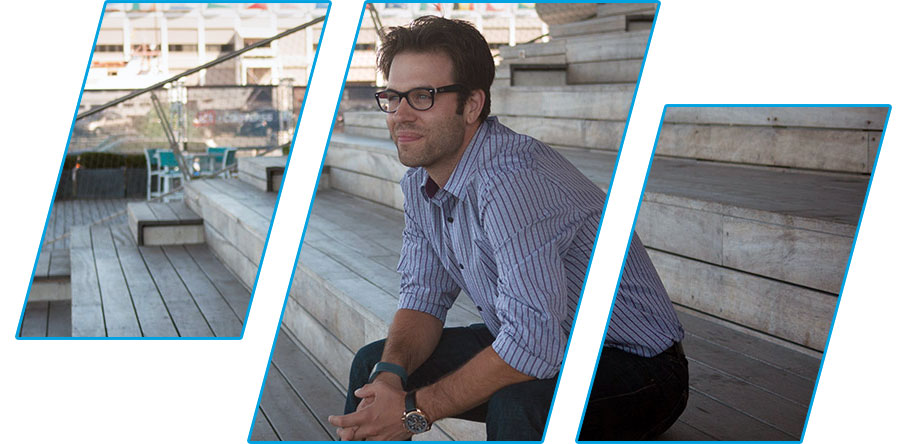
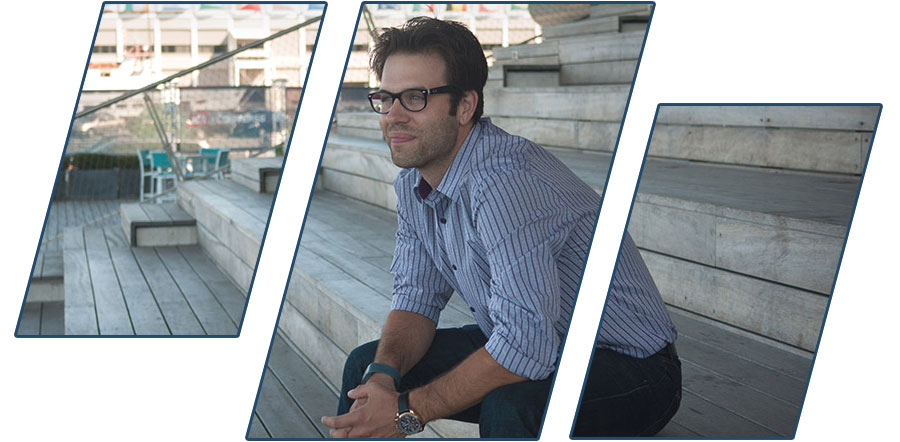
Updates galore

Changed region(s): [[0.0, 0.0, 0.9956, 1.0], [0.3733, 0.5882, 0.4044, 0.6471]]

diff --git a/public/css/style.min.css b/public/css/style.min.css
@@ -1,1 +1,1 @@
-/*! normalize.css v1.1.3 | MIT License | git.io/normalize */article,aside,details,figcaption,figure,footer,header,hgroup,main,nav,section,summary{display:block}audio,canvas,video{display:inline-block}audio:not([controls]){display:none;height:0}[hidden]{display:none}html{-ms-text-size-adjust:100%;-webkit-text-size-adjust:100%}button,html,input,select,textarea{font-family:sans-serif}body{margin:0}a:focus{outline:dotted thin}a:active,a:hover{outline:0}h1{font-size:2em;margin:.67em 0}h2{font-size:1.5em}h3{font-size:1.17em;margin:1em 0}h4{font-size:1em;margin:1.33em 0}h5{font-size:.83em;margin:1.67em 0}h6{font-size:.67em;margin:2.33em 0}abbr[title]{border-bottom:1px dotted}b,strong{font-weight:700}blockquote{margin:1em 40px}dfn{font-style:italic}hr{-moz-box-sizing:content-box;-webkit-box-sizing:content-box;box-sizing:content-box}mark{background:#ff0;color:#000}p,pre{margin:1em 0}code,kbd,pre,samp{font-family:monospace,serif;font-size:1em}pre{white-space:pre;white-space:pre-wrap;word-wrap:break-word}q{quotes:none}q:after,q:before{content:'';content:none}small{font-size:80%}sub,sup{font-size:75%;line-height:0;position:relative;vertical-align:baseline}sup{top:-.5em}sub{bottom:-.25em}dl,menu,ol,ul{margin:1em 0}dd{margin:0 0 0 40px}menu,ol,ul{padding:0 0 0 40px}nav ol,nav ul{list-style:none}img{border:0;-ms-interpolation-mode:bicubic}svg:not(:root){overflow:hidden}figure,form{margin:0}legend{border:0;padding:0;white-space:normal}button,input,select,textarea{font-size:100%;margin:0;vertical-align:baseline}button,input{line-height:normal}button,select{text-transform:none}button,html input[type=button],input[type=reset],input[type=submit]{-webkit-appearance:button;cursor:pointer}button[disabled],html input[disabled]{cursor:default}input[type=checkbox],input[type=radio]{-webkit-box-sizing:border-box;-moz-box-sizing:border-box;box-sizing:border-box;padding:0}input[type=search]{-webkit-appearance:textfield;-moz-box-sizing:content-box;-webkit-box-sizing:content-box;box-sizing:content-box}input[type=search]::-webkit-search-cancel-button,input[type=search]::-webkit-search-decoration{-webkit-appearance:none}button::-moz-focus-inner,input::-moz-focus-inner{border:0;padding:0}textarea{overflow:auto;vertical-align:top}table{border-collapse:collapse;border-spacing:0}/*! HTML5 Boilerplate v4.3.0 | MIT License | http://h5bp.com/ */button,html,input,select,textarea{color:#222}html{font-size:1em;line-height:1.4}::-moz-selection{background:#b3d4fc;text-shadow:none}::selection{background:#b3d4fc;text-shadow:none}hr{display:block;height:1px;border:0;border-top:1px solid #ccc;margin:1em 0;padding:0}audio,canvas,img,video{vertical-align:middle}fieldset{border:0;margin:0;padding:0}textarea{resize:vertical}.browsehappy{margin:.2em 0;background:#ccc;color:#000;padding:.2em 0}*{-webkit-box-sizing:border-box;-moz-box-sizing:border-box;box-sizing:border-box}body,html{height:100%;min-height:100%}body{color:#222;font-family:Roboto,'Helvetica Neue',Helvetica,Arial,sans-serif;font-size:.8125em}@media all and (min-width:500px){body{font-size:1em}}.container{width:90%;max-width:50em;display:block;margin:0 auto;border-top:1px solid #00a2e0}.container:after,.container:before{content:" ";display:table}.container:after{clear:both}.hero .container{border-top:0;padding:0}@media all and (min-width:950px){.container,.details .container{padding:1em 0}}.profile{width:100%;margin-top:1em;display:block;height:30em;background:url(../img/profile2sm.jpg) center top no-repeat}@media all and (min-width:500px){.profile{height:25em}}@media all and (min-width:700px){.profile{height:30em;background:url(../img/profile2.jpg) center top no-repeat}}h1,h2,h3{font-weight:700;font-family:'Roboto Condensed',sans-serif;color:#254969}.hero h1{font-size:3.35em;margin-bottom:.5em;margin-top:0}.hero h1 span{display:block;font-size:.5em;font-weight:400;font-style:italic;color:#666}h2{margin:.66667em 0}p{font-size:1.15em;line-height:1.7}a{color:#254969;-webkit-transition-property:color;transition-property:color;-webkit-transition-duration:.25s;transition-duration:.25s}a:hover{text-decoration:none}.contact ul{list-style-type:none;padding:0;margin:0 auto 1em}.contact li{padding:0;display:block;margin:0 2% 2%;font-size:1em;font-weight:700}@media all and (min-width:600px){.contact li{display:inline-block;width:49%;margin:0 1% 2% 0;text-align:left}.contact li:nth-child(2n){margin-right:0}}.contact a{padding:.75em 1em;display:block;border:1px solid #00a2e0;border-radius:5px;text-decoration:none;-webkit-transition-property:background;transition-property:background;-webkit-transition-duration:.25s;transition-duration:.25s}@media all and (min-width:600px){.contact a{padding:.5em 1em}}.details .details__block{vertical-align:top;padding:0 0 .625em}.details .details__block img{width:1.25em;margin-top:-.15em;margin-right:.25em}.details .details__block h3{margin:0}.details .details__block p{margin:.66667em 0}@font-face{font-family:icon;src:url(../fonts/icon.eot);src:url(../fonts/icon.eot#iefix) format('embedded-opentype'),url(../fonts/icon.ttf) format('truetype'),url(../fonts/icon.woff) format('woff'),url(../fonts/icon.svg#adhd) format('svg');font-weight:400;font-style:normal}[class^=icon]{font-family:adhd;speak:none;font-style:normal;font-weight:400;font-variant:normal;text-transform:none;line-height:1;-webkit-font-smoothing:antialiased}.icon-twitter:before{margin-right:5px;font-family:icon;content:"\74"}.icon-github:before{font-family:icon;margin-right:5px;content:"\67"}.icon-linkedin:before{font-family:icon;margin-right:5px;content:"\6c"}.icon-dribbble:before{font-family:icon;margin-right:5px;content:"\64"}.icon-behance:before{font-family:icon;margin-right:5px;content:"\62"}.icon-email:before{content:"\65";margin-right:5px;font-family:icon}.bigEntrance{animation-name:bigEntrance;-webkit-animation-name:bigEntrance;animation-duration:1.6s;-webkit-animation-duration:1.6s;animation-timing-function:ease-out;-webkit-animation-timing-function:ease-out;visibility:visible!important}@keyframes bigEntrance{0%{-webkit-transform:scale(0.3) rotate(6deg) translateX(-30%) translateY(30%);transform:scale(0.3) rotate(6deg) translateX(-30%) translateY(30%);opacity:.2}30%{-webkit-transform:scale(1.03) rotate(-2deg) translateX(2%) translateY(-2%);transform:scale(1.03) rotate(-2deg) translateX(2%) translateY(-2%);opacity:1}45%{-webkit-transform:scale(0.98) rotate(1deg) translateX(0%) translateY(0%);transform:scale(0.98) rotate(1deg) translateX(0%) translateY(0%);opacity:1}60%{-webkit-transform:scale(1.01) rotate(-1deg) translateX(0%) translateY(0%);transform:scale(1.01) rotate(-1deg) translateX(0%) translateY(0%);opacity:1}75%{-webkit-transform:scale(0.99) rotate(1deg) translateX(0%) translateY(0%);transform:scale(0.99) rotate(1deg) translateX(0%) translateY(0%);opacity:1}90%{-webkit-transform:scale(1.01) rotate(0deg) translateX(0%) translateY(0%);transform:scale(1.01) rotate(0deg) translateX(0%) translateY(0%);opacity:1}100%{-webkit-transform:scale(1) rotate(0deg) translateX(0%) translateY(0%);transform:scale(1) rotate(0deg) translateX(0%) translateY(0%);opacity:1}}@-webkit-keyframes bigEntrance{0%{-webkit-transform:scale(0.3) rotate(6deg) translateX(-30%) translateY(30%);opacity:.2}30%{-webkit-transform:scale(1.03) rotate(-2deg) translateX(2%) translateY(-2%);opacity:1}45%{-webkit-transform:scale(0.98) rotate(1deg) translateX(0%) translateY(0%);opacity:1}60%{-webkit-transform:scale(1.01) rotate(-1deg) translateX(0%) translateY(0%);opacity:1}75%{-webkit-transform:scale(0.99) rotate(1deg) translateX(0%) translateY(0%);opacity:1}90%{-webkit-transform:scale(1.01) rotate(0deg) translateX(0%) translateY(0%);opacity:1}100%{-webkit-transform:scale(1) rotate(0deg) translateX(0%) translateY(0%);opacity:1}}.ir{background-color:transparent;border:0;overflow:hidden}.ir:before{content:"";display:block;width:0;height:150%}.hidden{display:none!important;visibility:hidden}.visuallyhidden{border:0;clip:rect(0 0 0 0);height:1px;margin:-1px;overflow:hidden;padding:0;position:absolute;width:1px}.visuallyhidden.focusable:active,.visuallyhidden.focusable:focus{clip:auto;height:auto;margin:0;overflow:visible;position:static;width:auto}.invisible{visibility:hidden}.clearfix:after,.clearfix:before{content:" ";display:table}.clearfix:after{clear:both}@media print{@page{margin:.5cm}*{background:0 0!important;color:#000!important;-webkit-box-shadow:none!important;box-shadow:none!important;text-shadow:none!important}a,a:visited{text-decoration:underline}a[href]:after{content:" (" attr(href) ")"}abbr[title]:after{content:" (" attr(title) ")"}.ir a:after,a[href^="javascript:"]:after,a[href^="#"]:after{content:""}blockquote,pre{border:1px solid #999;page-break-inside:avoid}thead{display:table-header-group}img,tr{page-break-inside:avoid}img{max-width:100%!important}h2,h3,p{orphans:3;widows:3}h2,h3{page-break-after:avoid}}
+/*! normalize.css v1.1.3 | MIT License | git.io/normalize */article,aside,details,figcaption,figure,footer,header,hgroup,main,nav,section,summary{display:block}audio,canvas,video{display:inline-block}audio:not([controls]){display:none;height:0}[hidden]{display:none}html{-ms-text-size-adjust:100%;-webkit-text-size-adjust:100%}button,html,input,select,textarea{font-family:sans-serif}body{margin:0}a:focus{outline:dotted thin}a:active,a:hover{outline:0}h1{font-size:2em;margin:.67em 0}h2{font-size:1.5em}h3{font-size:1.17em;margin:1em 0}h4{font-size:1em;margin:1.33em 0}h5{font-size:.83em;margin:1.67em 0}h6{font-size:.67em;margin:2.33em 0}abbr[title]{border-bottom:1px dotted}b,strong{font-weight:700}blockquote{margin:1em 40px}dfn{font-style:italic}hr{-moz-box-sizing:content-box;-webkit-box-sizing:content-box;box-sizing:content-box}mark{background:#ff0;color:#000}p,pre{margin:1em 0}code,kbd,pre,samp{font-family:monospace,serif;font-size:1em}pre{white-space:pre;white-space:pre-wrap;word-wrap:break-word}q{quotes:none}q:after,q:before{content:'';content:none}small{font-size:80%}sub,sup{font-size:75%;line-height:0;position:relative;vertical-align:baseline}sup{top:-.5em}sub{bottom:-.25em}dl,menu,ol,ul{margin:1em 0}dd{margin:0 0 0 40px}menu,ol,ul{padding:0 0 0 40px}nav ol,nav ul{list-style:none}img{border:0;-ms-interpolation-mode:bicubic}svg:not(:root){overflow:hidden}figure,form{margin:0}legend{border:0;padding:0;white-space:normal}button,input,select,textarea{font-size:100%;margin:0;vertical-align:baseline}button,input{line-height:normal}button,select{text-transform:none}button,html input[type=button],input[type=reset],input[type=submit]{-webkit-appearance:button;cursor:pointer}button[disabled],html input[disabled]{cursor:default}input[type=checkbox],input[type=radio]{-webkit-box-sizing:border-box;-moz-box-sizing:border-box;box-sizing:border-box;padding:0}input[type=search]{-webkit-appearance:textfield;-moz-box-sizing:content-box;-webkit-box-sizing:content-box;box-sizing:content-box}input[type=search]::-webkit-search-cancel-button,input[type=search]::-webkit-search-decoration{-webkit-appearance:none}button::-moz-focus-inner,input::-moz-focus-inner{border:0;padding:0}textarea{overflow:auto;vertical-align:top}table{border-collapse:collapse;border-spacing:0}/*! HTML5 Boilerplate v4.3.0 | MIT License | http://h5bp.com/ */button,html,input,select,textarea{color:#222}html{font-size:1em;line-height:1.4}::-moz-selection{background:#b3d4fc;text-shadow:none}::selection{background:#b3d4fc;text-shadow:none}hr{display:block;height:1px;border:0;border-top:1px solid #ccc;margin:1em 0;padding:0}audio,canvas,img,video{vertical-align:middle}fieldset{border:0;margin:0;padding:0}textarea{resize:vertical}.browsehappy{margin:.2em 0;background:#ccc;color:#000;padding:.2em 0}*{-webkit-box-sizing:border-box;-moz-box-sizing:border-box;box-sizing:border-box}body,html{min-height:100%}body{color:#222;font-family:Roboto,'Helvetica Neue',Helvetica,Arial,sans-serif;font-size:.8125em;border-left:20px solid #254969}@media all and (min-width:500px){body{font-size:1em}}.container{width:90%;max-width:50em;display:block;border-top:1px solid #254969;margin:0 auto}.container:after,.container:before{content:" ";display:table}.container:after{clear:both}.hero .container{border-top:0;padding:0}@media all and (min-width:950px){.container,.details .container{padding:1em 0}}.profile{width:100%;display:block;height:30em;background:url(../img/profile2sm.jpg) center 30px no-repeat}@media all and (min-width:500px){.profile{height:25em}}@media all and (min-width:700px){.profile{height:30em;background:url(../img/profile2.jpg) center 20px no-repeat}}h1,h2,h3{font-weight:700;font-family:'Roboto Condensed',sans-serif;color:#254969}.hero h1{font-size:3.35em;margin-bottom:.5em;margin-top:0}.hero h1 span{display:block;font-size:.5em;font-weight:400;font-style:italic;color:#666}h2{margin:.66667em 0}p{font-size:1.15em;line-height:1.7}a{color:#254969;-webkit-transition-property:color;transition-property:color;-webkit-transition-duration:.25s;transition-duration:.25s}a:hover{text-decoration:none}.contact ul{list-style-type:none;padding:0;margin:0 auto 1em}.contact li{padding:0;display:block;margin:0 2% 2%;font-size:1em;font-weight:700}@media all and (min-width:600px){.contact li{display:inline-block;width:49%;margin:0 1% 2% 0;text-align:left}.contact li:nth-child(2n){margin-right:0}}.contact a{padding:.75em 1em;display:block;border:1px solid #254969;border-radius:5px;text-decoration:none;-webkit-transition-property:background;transition-property:background;-webkit-transition-duration:.25s;transition-duration:.25s}@media all and (min-width:600px){.contact a{padding:.5em 1em}}.details .details__block{vertical-align:top;padding:0 0 .625em}.details .details__block img{width:1.25em;margin-top:-.15em;margin-right:.25em}.details .details__block h3{margin:0}.details .details__block p{margin:.66667em 0}@font-face{font-family:icon;src:url(../fonts/icon.eot);src:url(../fonts/icon.eot#iefix) format('embedded-opentype'),url(../fonts/icon.ttf) format('truetype'),url(../fonts/icon.woff) format('woff'),url(../fonts/icon.svg#adhd) format('svg');font-weight:400;font-style:normal}[class^=icon]{font-family:adhd;speak:none;font-style:normal;font-weight:400;font-variant:normal;text-transform:none;line-height:1;-webkit-font-smoothing:antialiased}.icon-twitter:before{margin-right:5px;font-family:icon;content:"\74"}.icon-github:before{font-family:icon;margin-right:5px;content:"\67"}.icon-linkedin:before{font-family:icon;margin-right:5px;content:"\6c"}.icon-dribbble:before{font-family:icon;margin-right:5px;content:"\64"}.icon-behance:before{font-family:icon;margin-right:5px;content:"\62"}.icon-email:before{content:"\65";margin-right:5px;font-family:icon}.ir{background-color:transparent;border:0;overflow:hidden}.ir:before{content:"";display:block;width:0;height:150%}.hidden{display:none!important;visibility:hidden}.visuallyhidden{border:0;clip:rect(0 0 0 0);height:1px;margin:-1px;overflow:hidden;padding:0;position:absolute;width:1px}.visuallyhidden.focusable:active,.visuallyhidden.focusable:focus{clip:auto;height:auto;margin:0;overflow:visible;position:static;width:auto}.invisible{visibility:hidden}.clearfix:after,.clearfix:before{content:" ";display:table}.clearfix:after{clear:both}@media print{@page{margin:.5cm}*{background:0 0!important;color:#000!important;-webkit-box-shadow:none!important;box-shadow:none!important;text-shadow:none!important}a,a:visited{text-decoration:underline}a[href]:after{content:" (" attr(href) ")"}abbr[title]:after{content:" (" attr(title) ")"}.ir a:after,a[href^="javascript:"]:after,a[href^="#"]:after{content:""}blockquote,pre{border:1px solid #999;page-break-inside:avoid}thead{display:table-header-group}img,tr{page-break-inside:avoid}img{max-width:100%!important}h2,h3,p{orphans:3;widows:3}h2,h3{page-break-after:avoid}}

diff --git a/public/css/style.css b/public/css/style.css
@@ -482,13 +482,13 @@ textarea {
   box-sizing: border-box; }
 
 html, body {
-  height: 100%;
   min-height: 100%; }
 
 body {
   color: #222;
   font-family: 'Roboto', 'Helvetica Neue', Helvetica, Arial, sans-serif;
-  font-size: 0.8125em; }
+  font-size: 0.8125em;
+  border-left: 20px solid #254969; }
   @media all and (min-width: 500px) {
     body {
       font-size: 1em; } }
@@ -497,9 +497,9 @@ body {
   width: 90%;
   max-width: 50em;
   display: block;
+  border-top: 1px solid #254969;
   margin: 0 auto;
-  *zoom: 1;
-  border-top: 1px solid #00a2e0; }
+  *zoom: 1; }
   .container:before, .container:after {
     content: " ";
     display: table; }
@@ -517,17 +517,16 @@ body {
 
 .profile {
   width: 100%;
-  margin-top: 1em;
   display: block;
   height: 30em;
-  background: url(../img/profile2sm.jpg) center top no-repeat; }
+  background: url(../img/profile2sm.jpg) center 30px no-repeat; }
   @media all and (min-width: 500px) {
     .profile {
       height: 25em; } }
   @media all and (min-width: 700px) {
     .profile {
       height: 30em;
-      background: url(../img/profile2.jpg) center top no-repeat; } }
+      background: url(../img/profile2.jpg) center 20px no-repeat; } }
 
 h1, h2, h3 {
   font-weight: 700;
@@ -583,7 +582,7 @@ a {
 .contact a {
   padding: 0.75em 1em;
   display: block;
-  border: 1px solid #00a2e0;
+  border: 1px solid #254969;
   border-radius: 5px;
   text-decoration: none;
   -webkit-transition-property: background;
@@ -652,86 +651,6 @@ a {
   content: "\65";
   margin-right: 5px;
   font-family: 'icon'; }
-
-/*
-==============================================
-bigEntrance
-==============================================
-H/T http://www.justinaguilar.com/animations/
-*/
-.bigEntrance {
-  animation-name: bigEntrance;
-  -webkit-animation-name: bigEntrance;
-  animation-duration: 1.6s;
-  -webkit-animation-duration: 1.6s;
-  animation-timing-function: ease-out;
-  -webkit-animation-timing-function: ease-out;
-  visibility: visible !important; }
-
-@keyframes bigEntrance {
-  0% {
-    -webkit-transform: scale(0.3) rotate(6deg) translateX(-30%) translateY(30%);
-    transform: scale(0.3) rotate(6deg) translateX(-30%) translateY(30%);
-    opacity: 0.2; }
-
-  30% {
-    -webkit-transform: scale(1.03) rotate(-2deg) translateX(2%) translateY(-2%);
-    transform: scale(1.03) rotate(-2deg) translateX(2%) translateY(-2%);
-    opacity: 1; }
-
-  45% {
-    -webkit-transform: scale(0.98) rotate(1deg) translateX(0%) translateY(0%);
-    transform: scale(0.98) rotate(1deg) translateX(0%) translateY(0%);
-    opacity: 1; }
-
-  60% {
-    -webkit-transform: scale(1.01) rotate(-1deg) translateX(0%) translateY(0%);
-    transform: scale(1.01) rotate(-1deg) translateX(0%) translateY(0%);
-    opacity: 1; }
-
-  75% {
-    -webkit-transform: scale(0.99) rotate(1deg) translateX(0%) translateY(0%);
-    transform: scale(0.99) rotate(1deg) translateX(0%) translateY(0%);
-    opacity: 1; }
-
-  90% {
-    -webkit-transform: scale(1.01) rotate(0deg) translateX(0%) translateY(0%);
-    transform: scale(1.01) rotate(0deg) translateX(0%) translateY(0%);
-    opacity: 1; }
-
-  100% {
-    -webkit-transform: scale(1) rotate(0deg) translateX(0%) translateY(0%);
-    transform: scale(1) rotate(0deg) translateX(0%) translateY(0%);
-    opacity: 1; } }
-
-@-webkit-keyframes bigEntrance {
-  0% {
-    -webkit-transform: scale(0.3) rotate(6deg) translateX(-30%) translateY(30%);
-    opacity: 0.2; }
-
-  30% {
-    -webkit-transform: scale(1.03) rotate(-2deg) translateX(2%) translateY(-2%);
-    opacity: 1; }
-
-  45% {
-    -webkit-transform: scale(0.98) rotate(1deg) translateX(0%) translateY(0%);
-    opacity: 1; }
-
-  60% {
-    -webkit-transform: scale(1.01) rotate(-1deg) translateX(0%) translateY(0%);
-    opacity: 1; }
-
-  75% {
-    -webkit-transform: scale(0.99) rotate(1deg) translateX(0%) translateY(0%);
-    opacity: 1; }
-
-  90% {
-    -webkit-transform: scale(1.01) rotate(0deg) translateX(0%) translateY(0%);
-    opacity: 1; }
-
-  100% {
-    -webkit-transform: scale(1) rotate(0deg) translateX(0%) translateY(0%);
-    opacity: 1; } }
 
 /* ==========================================================================
    Helper classes

diff --git a/assets/sass/partials/_content.scss b/assets/sass/partials/_content.scss
@@ -1,13 +1,11 @@
 //Main content stylesheet
-html, body {
-  height: 100%;
-  min-height: 100%;
-}
+html, body { min-height: 100%; }
 
 body {
   color: #222;
   font-family: 'Roboto', 'Helvetica Neue', Helvetica, Arial, sans-serif;
 	font-size: .8125em;
+  border-left: 20px solid $darkBlue;
 
   @media all and (min-width: 500px) { font-size: 1em; }
 }
@@ -16,9 +14,9 @@ body {
 	width: 90%;
   max-width: 50em;
   display: block;
+  border-top: 1px solid  $darkBlue;
   @include centered;
   @include clearfix;
-  border-top: 1px solid  $lightBlue;
 
   .hero & {
     border-top: 0;
@@ -36,10 +34,9 @@ body {
 
 .profile{
   width: 100%;
-  margin-top: 1em;
   display: block;
   height: 30em;
-  background: url(../img/profile2sm.jpg) center top no-repeat;
+  background: url(../img/profile2sm.jpg) center 30px no-repeat;
 
   @media all and (min-width: 500px) {
     height: 25em;
@@ -47,7 +44,7 @@ body {
 
   @media all and (min-width: 700px) {
     height: 30em;
-    background: url(../img/profile2.jpg) center top no-repeat;
+    background: url(../img/profile2.jpg) center 20px no-repeat;
   }
 }
 
@@ -118,7 +115,7 @@ a {
   a {
     padding: .75em 1em;
     display: block;
-    border: 1px solid $lightBlue;
+    border: 1px solid $darkBlue;
     border-radius: 5px;
     text-decoration: none;
     @include transition-property (background);
@@ -189,86 +186,4 @@ a {
 	content: "\65";
   margin-right: 5px;
   font-family: 'icon';
-}
-
-/*
-==============================================
-bigEntrance
-==============================================
-H/T http://www.justinaguilar.com/animations/
-*/
-
-.bigEntrance {
-	animation-name: bigEntrance;
-	-webkit-animation-name: bigEntrance;
-
-	animation-duration: 1.6s;
-	-webkit-animation-duration: 1.6s;
-
-	animation-timing-function: ease-out;
-	-webkit-animation-timing-function: ease-out;
-
-	visibility: visible !important;
-}
-
-@keyframes bigEntrance {
-	0% {
-		transform: scale(0.3) rotate(6deg) translateX(-30%) translateY(30%);
-		opacity: 0.2;
-	}
-	30% {
-		transform: scale(1.03) rotate(-2deg) translateX(2%) translateY(-2%);
-		opacity: 1;
-	}
-	45% {
-		transform: scale(0.98) rotate(1deg) translateX(0%) translateY(0%);
-		opacity: 1;
-	}
-	60% {
-		transform: scale(1.01) rotate(-1deg) translateX(0%) translateY(0%);
-		opacity: 1;
-	}
-	75% {
-		transform: scale(0.99) rotate(1deg) translateX(0%) translateY(0%);
-		opacity: 1;
-	}
-	90% {
-		transform: scale(1.01) rotate(0deg) translateX(0%) translateY(0%);
-		opacity: 1;
-	}
-	100% {
-		transform: scale(1) rotate(0deg) translateX(0%) translateY(0%);
-		opacity: 1;
-	}
-}
-
-@-webkit-keyframes bigEntrance {
-	0% {
-		-webkit-transform: scale(0.3) rotate(6deg) translateX(-30%) translateY(30%);
-		opacity: 0.2;
-	}
-	30% {
-		-webkit-transform: scale(1.03) rotate(-2deg) translateX(2%) translateY(-2%);
-		opacity: 1;
-	}
-	45% {
-		-webkit-transform: scale(0.98) rotate(1deg) translateX(0%) translateY(0%);
-		opacity: 1;
-	}
-	60% {
-		-webkit-transform: scale(1.01) rotate(-1deg) translateX(0%) translateY(0%);
-		opacity: 1;
-	}
-	75% {
-		-webkit-transform: scale(0.99) rotate(1deg) translateX(0%) translateY(0%);
-		opacity: 1;
-	}
-	90% {
-		-webkit-transform: scale(1.01) rotate(0deg) translateX(0%) translateY(0%);
-		opacity: 1;
-	}
-	100% {
-		-webkit-transform: scale(1) rotate(0deg) translateX(0%) translateY(0%);
-		opacity: 1;
-	}
-}
+  }
